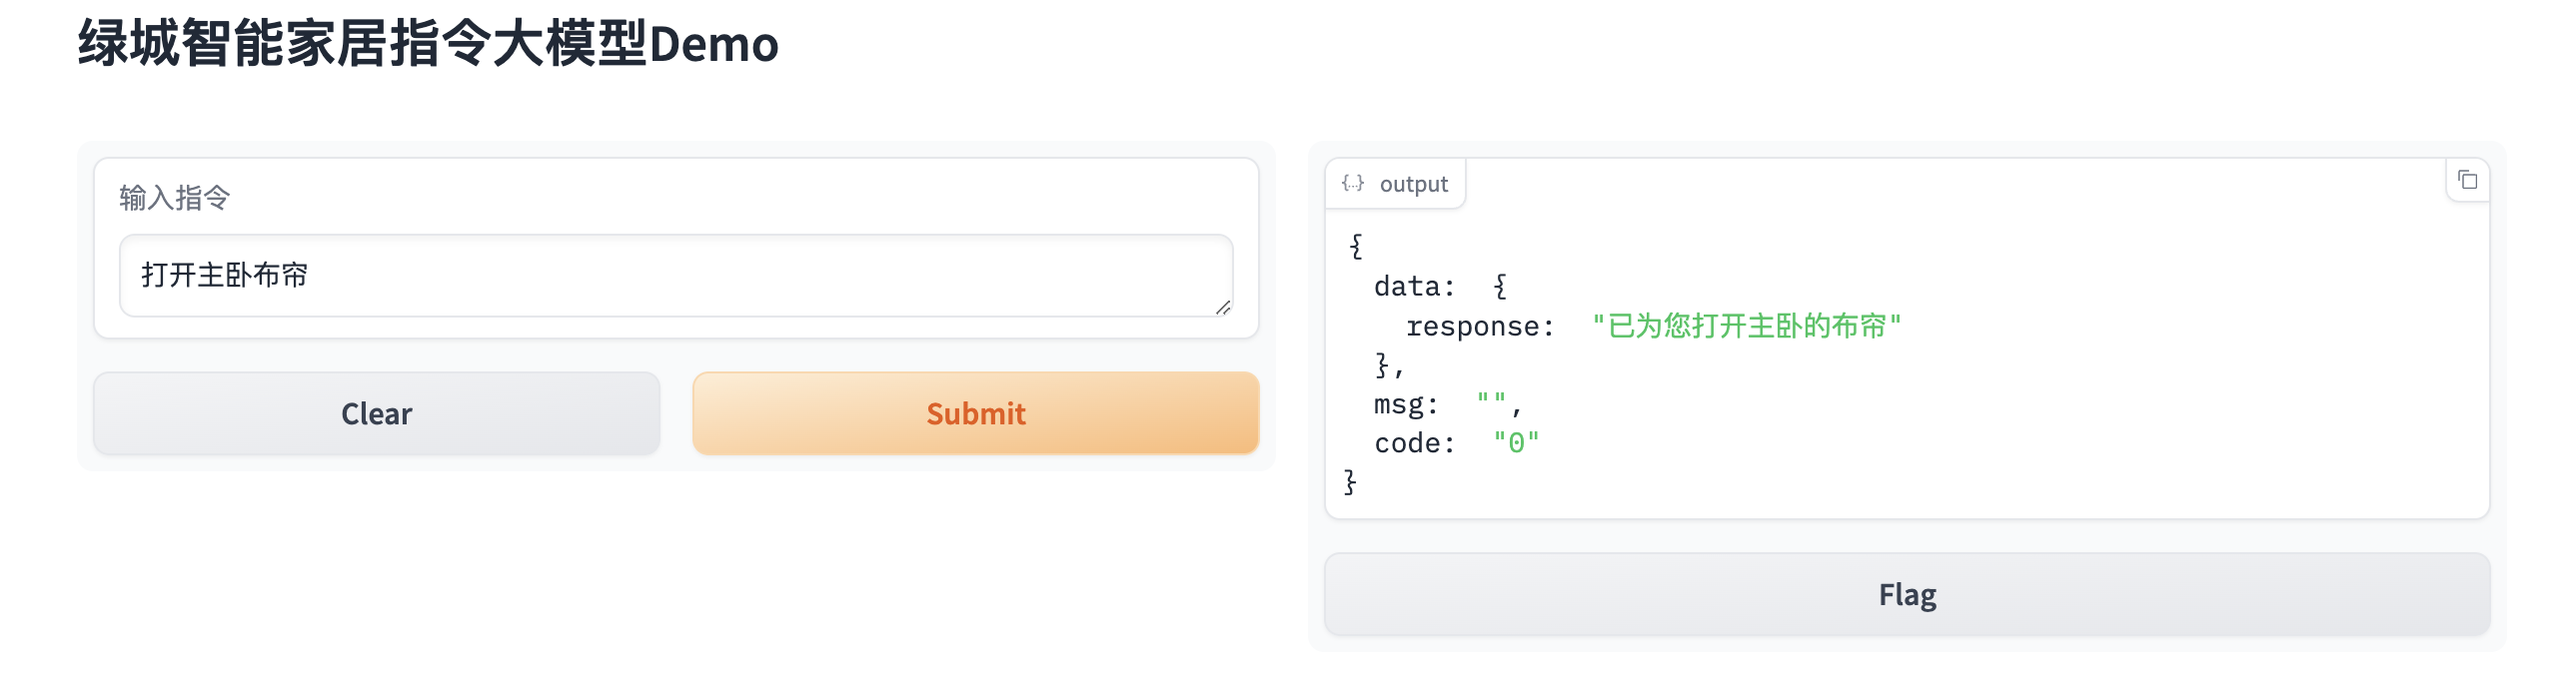
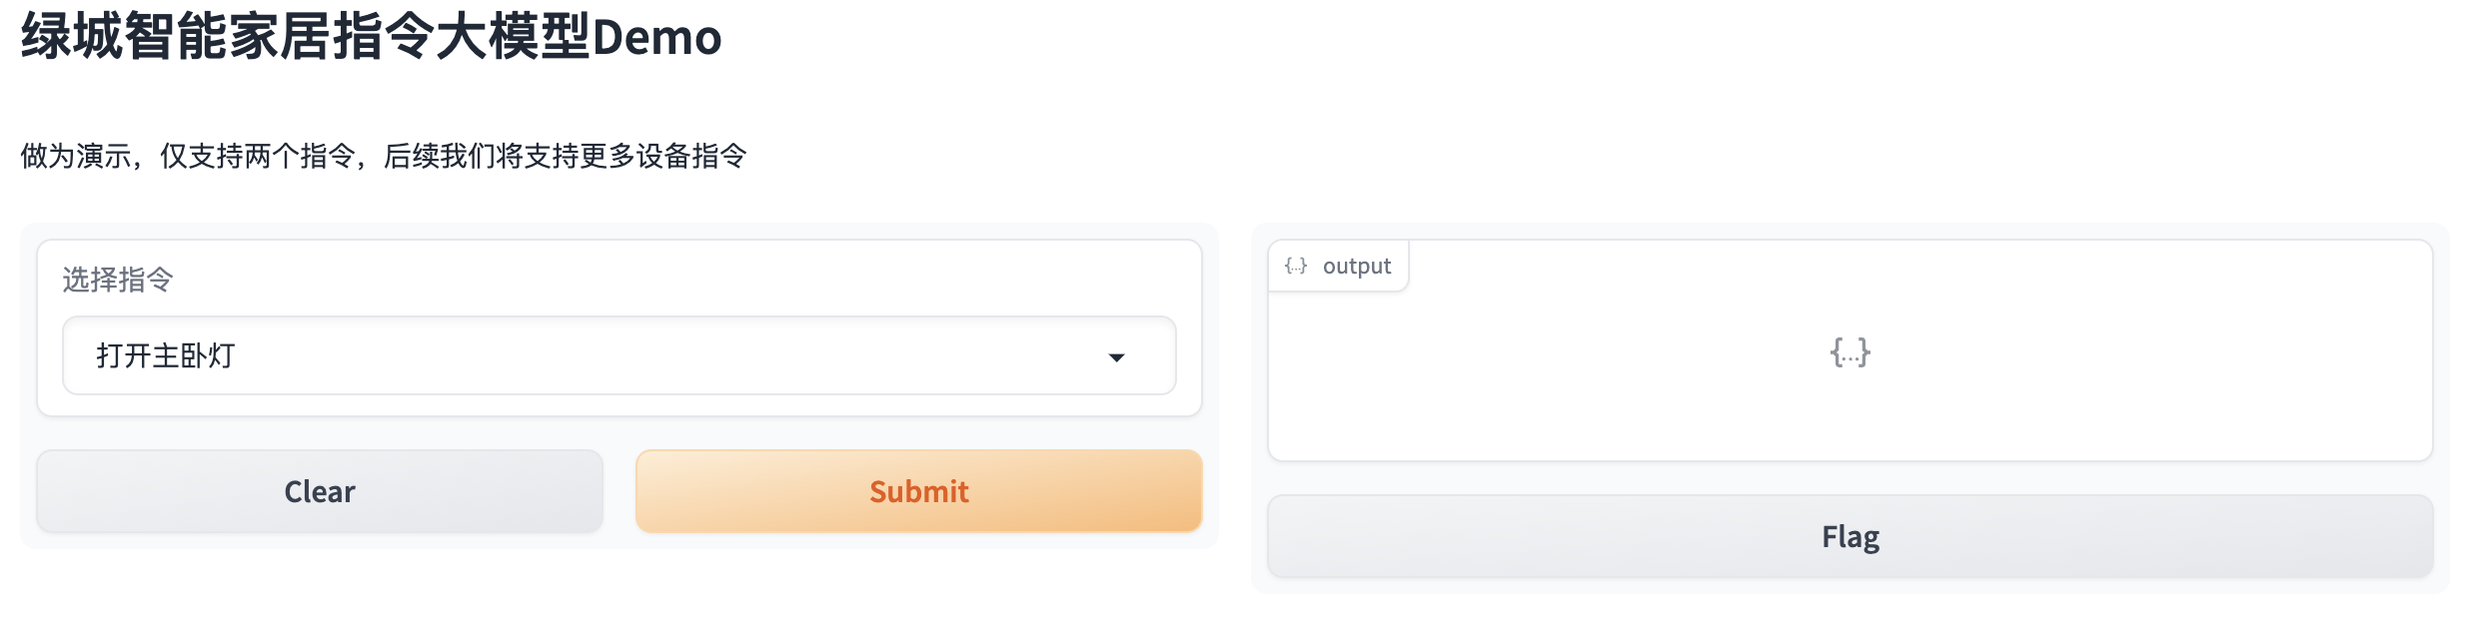
修改

diff --git a/app.py b/app.py
@@ -1,10 +1,10 @@
 import gradio as gr  
 import requests  
   
-def process_input(user_input):  
+def process_input(user_input, user_input2):  
     try: 
         # 构造API请求  
-        url = "https://smarthome-dev.gtdreamlife.com/smartlife/chat"  
+        url = "http://183.129.211.90:22323/smartlife/chat"  
         headers = {"Content-Type": "application/json"}  # 根据你的API需求调整  
         data = {"messages": user_input}  # 构造请求体，这里假设API需要一个名为"param"的参数  
         
@@ -22,10 +22,10 @@ def process_input(user_input):
 # 创建Gradio界面  
 iface = gr.Interface(  
     fn=process_input,  
-    inputs=gr.Textbox(label="输入指令"),  
+    inputs=gr.Dropdown(["打开主卧灯", "关闭主卧灯"], label="选择指令"),
     outputs=gr.JSON(), 
+    description= "做为演示，仅支持两个指令，后续我们将支持更多设备指令",
     title="绿城智能家居指令大模型Demo"  
 )
 
-# 启动界面  
-iface.launch()
+iface.launch()  # 启动界面

diff --git a/README.md b/README.md
@@ -47,8 +47,10 @@
     + [微调](#微调)
     + [部署](#部署)
     + [评测](#评测)
-- [💕 致谢](#-致谢)
+- [技术报告](#技术报告)
+- [致谢](#致谢)
 - [开源许可证](#开源许可证)
+
 
 ## 📖 简介
 智能家居指令大模型，由绿城未来数智通过数十万条智能家居控制指令基于internLM2_chat_7b微调训练而成，大模型能够根据用户上下文识别出文本中的指令、设备名称、空间名称、接口、回复、场景、设备id、场景id，值等，并返回JSON结构，可供IOT平台进一步的指令解析、执行、控制。配合prompt工程，可以实现设备、场景数据的动态识别。
@@ -106,9 +108,12 @@ git clone https://code.openxlab.org.cn/Greentown/Greentown_SmartHomeCLLM.git
 ```
 ### 运行Demo
 1. 在线Demo体验
-> 在线Demo对接了实验室的IOT平台，能真实控制实验室设备
+> - 在线Demo对接了实验室的IOT平台，能真实控制实验室设备
+>
+> - 直播地址能够实时看到设备控制情况，由于摄像头问题，*请在手机端打开观看，视频流有20秒左右延迟，请评委耐心等待一下...有时候会打不开，麻烦评委多尝试一下...*
 
-https://openxlab.org.cn/apps/detail/Greentown/Greentown_SmartHomeCLLM
+演示地址：https://openxlab.org.cn/apps/detail/Greentown/Greentown_SmartHomeCLLM  
+直播地址：http://test.aliali.vip/video
 
 ![在线Demo体验](./images/online.png)
 
@@ -389,7 +394,10 @@ sh_datasets = [
 python run.py configs/eval_internlm2_chat_lmdeploy_apiserver.py --debug
 ```
 
-## 💕 致谢
+## 技术报告
+https://gtportal.feishu.cn/docx/OEewdxp8Jo4mITxcIZ7cGrOUnYd
+
+## 致谢
 感谢以下项目：
 <div align="center">
 
